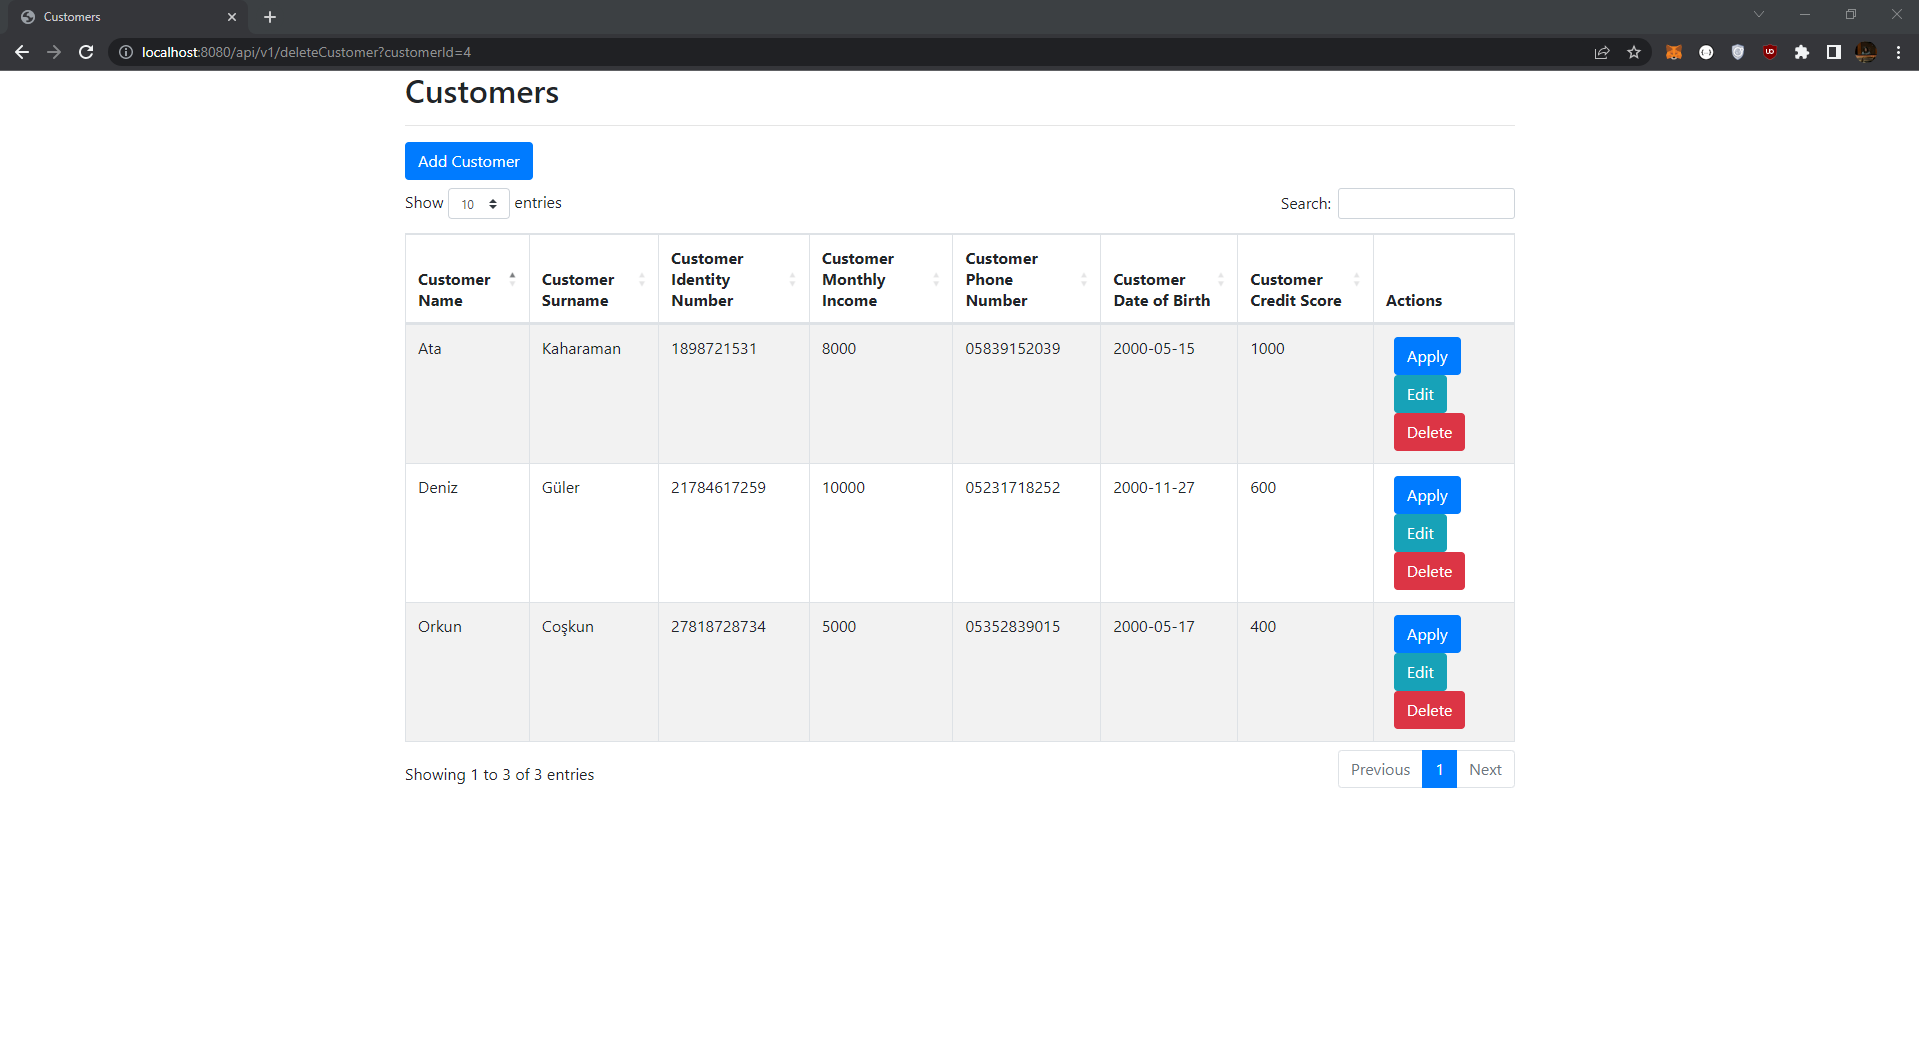
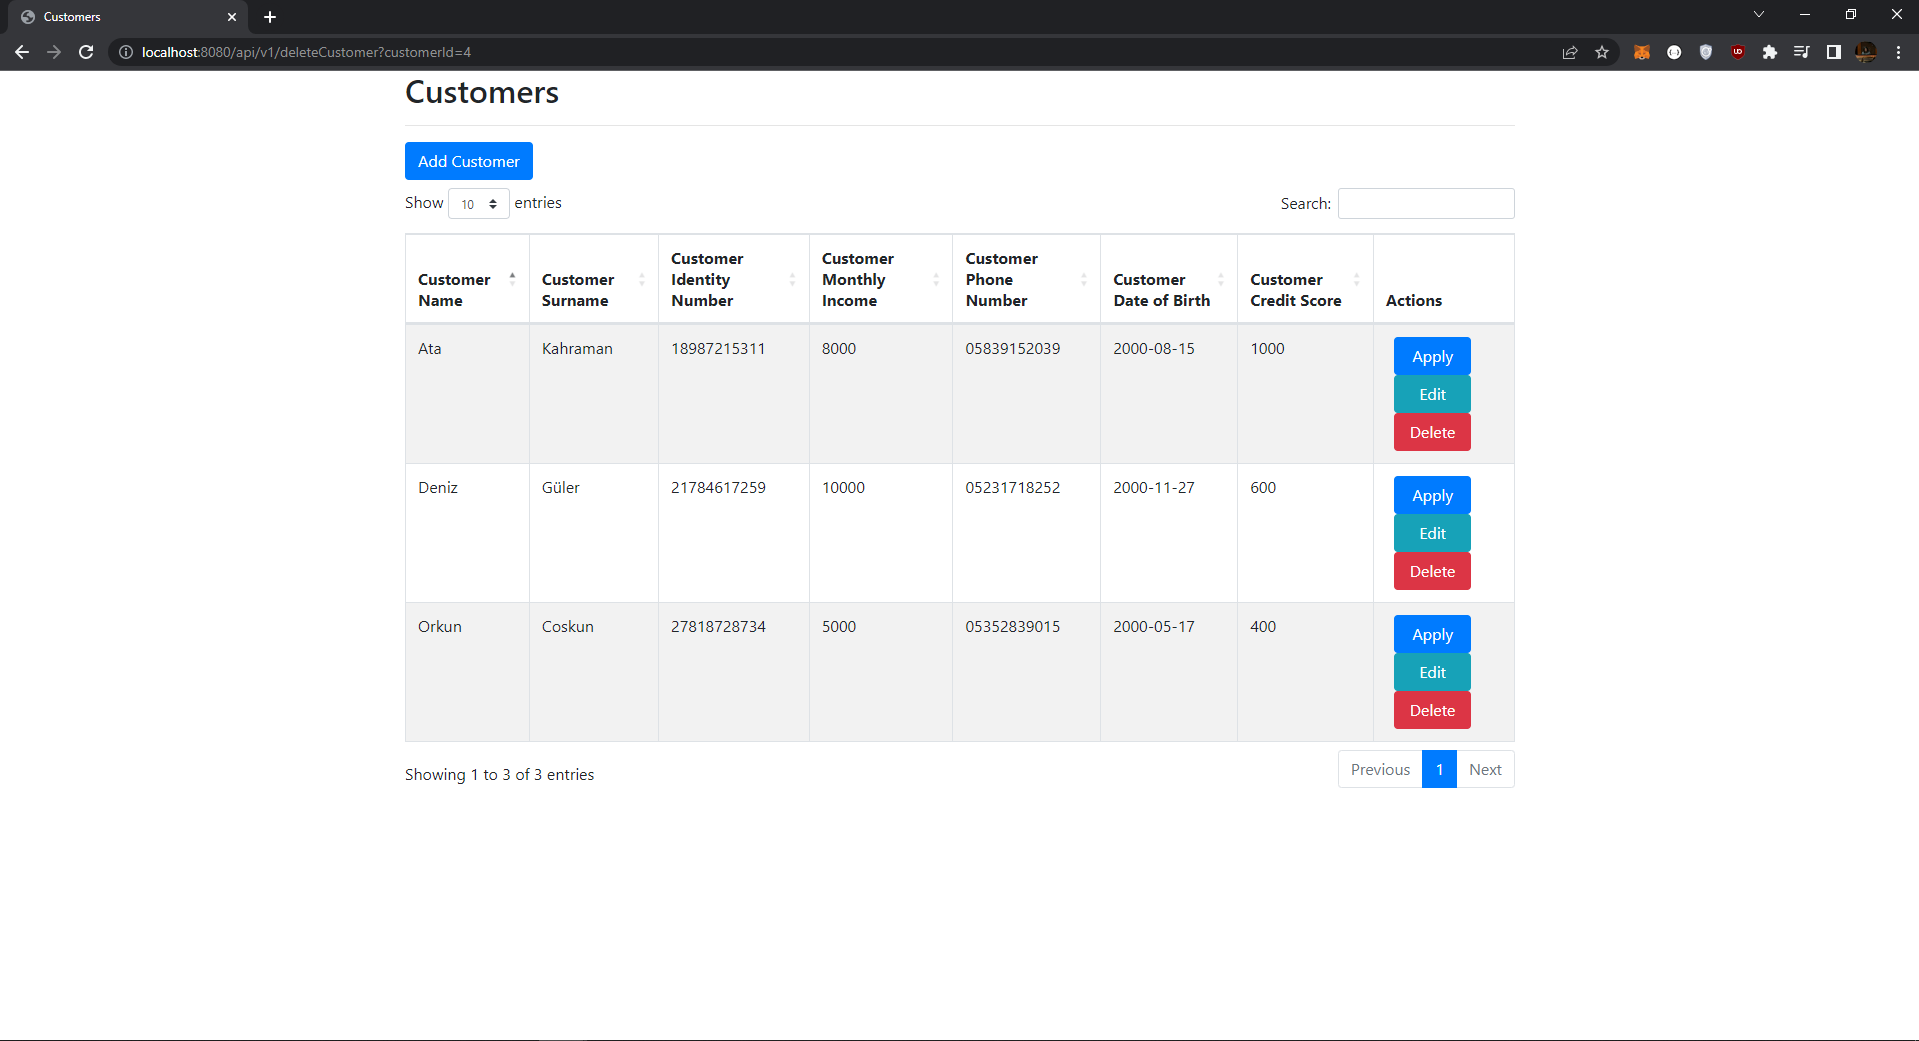
customers page front end edited

diff --git a/src/main/resources/templates/list-customers.html b/src/main/resources/templates/list-customers.html
@@ -38,9 +38,9 @@
 					<td th:text="${customer.dateOfBirth}"></td>
 					<td th:text="${customer.creditScore}"></td>
 					<td>
-						<a th:href="@{/api/v1/apply(customerId=${customer.id})}" class="btn btn-primary ml-2">Apply</a>
-						<a th:href="@{/api/v1/updateCustomer(customerId=${customer.id})}" class="btn btn-info ml-2">Edit</a>
-						<a th:href="@{/api/v1/deleteCustomer(customerId=${customer.id})}" class="btn btn-danger ml-2">Delete</a>
+						<a th:href="@{/api/v1/apply(customerId=${customer.id})}" class="btn btn-primary ml-2 col-8">Apply</a>
+						<a th:href="@{/api/v1/updateCustomer(customerId=${customer.id})}" class="btn btn-info ml-2 col-8">Edit</a>
+						<a th:href="@{/api/v1/deleteCustomer(customerId=${customer.id})}" class="btn btn-danger ml-2 col-8">Delete</a>
 					</td>
 				</tr>
 			</tbody>
